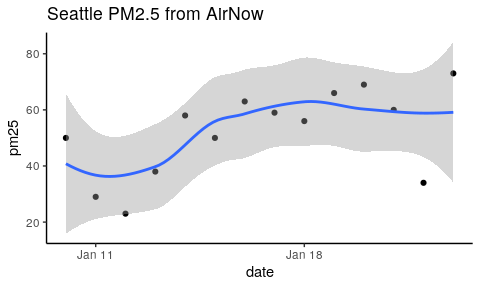
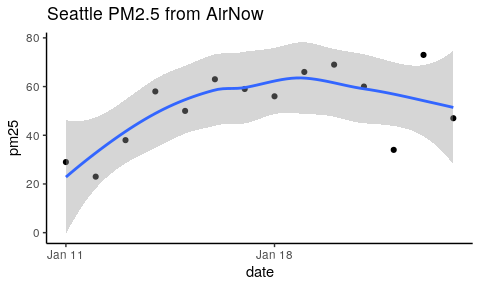
Added example for EPA AQS.

diff --git a/demos/data_import/epa_aqi/getAQI.md b/demos/data_import/epa_aqi/getAQI.md
@@ -1,7 +1,7 @@
 ---
 title: 'Air Quality Web Data'
 author: "Brian High"
-date: "24 January, 2021"
+date: "25 January, 2021"
 output:
   ioslides_presentation:
     fig_caption: yes
@@ -49,7 +49,7 @@ Load packages with `pacman` to auto-install any missing packages.
 if (! suppressPackageStartupMessages(require(pacman))) {
   install.packages('pacman', repos = 'http://cran.us.r-project.org')
 }
-pacman::p_load(dplyr, tidyr, ggplot2, lubridate, httr, jsonlite, styler)
+pacman::p_load(dplyr, tidyr, ggplot2, lubridate, httr, jsonlite, styler, maps)
 ```
 
 We are loading:
@@ -93,7 +93,7 @@ substr(prettify(fromJSON(url)), 1, 250)
 ```
 ## {
 ##     "state": "Washington",
-##     "fileWrittenDateTime": "20210124T160607Z",
+##     "fileWrittenDateTime": "20210125T160551Z",
 ##     "reportingAreas": [
 ##         {
 ##             "Ritzville": {
@@ -179,6 +179,86 @@ ggplot(plot_df, aes(date, pm25)) + geom_point() +  ggtitle(plot_title) +
 ```
 
 ![](getAQI_files/figure-html/airnow_plot-1.png)<!-- -->
+
+## Get EPA AQS Data
+
+The EPA offers data for [download](https://aqs.epa.gov/aqsweb/airdata/download_files.html) as annual 
+"zip" archives from previous years. You can download files for the year and 
+geographic area you want and then extract the data you want from those files.
+
+If you want to be more specific in what you download, you can use their 
+[API](https://aqs.epa.gov/aqsweb/documents/data_api.html) to 
+get data in JSON format for, e.g., a specific site and parameter. But you can't 
+get recent data from this source, unfortunately.
+
+We will get PM2.5 data for the "Seattle-10th & Weller" site for a two week 
+period from this time last year.
+
+
+```r
+# Calculate start and end dates
+start <- format.Date(Sys.Date() - 379, "%Y%m%d")
+end <- format.Date(Sys.Date() - 365, "%Y%m%d")
+```
+
+## Get EPA AQS Metadata
+
+To get our data, we will first need to download some metadata:
+
+- State FIPS code
+- County code
+- State code
+- Site number
+- Parameter code
+
+
+```r
+# Find FIPS code for Washington
+url <- "https://aqs.epa.gov/data/api/list/states?email=test@aqs.api&key=test"
+states <- fromJSON(url)[['Data']]
+fips_code <- states %>%  filter(value_represented == "Washington") %>% pull(code)
+
+# Get monitor info (site number and parameter code)
+url <- "https://aqs.epa.gov/data/api/monitors/byState"
+query_list <- list(email = "test@aqs.api", key = "test", 
+                   bdate = start, edate = end, state = fips_code)
+monitors <- fromJSON(content(GET(url, query = query_list), "text"))[['Data']]
+monitor <- monitors %>% filter(local_site_name == "Seattle-10th & Weller",
+         parameter_name == "PM2.5 - Local Conditions") 
+```
+
+## Get data with EPA AQS API
+
+Now we can get our hourly PM2.5 data from "Seattle-10th & Weller" from last year.
+
+
+```r
+# Get PM2.5 data
+url <- "https://aqs.epa.gov/data/api/sampleData/bySite"
+query_list <- list(email = "test@aqs.api", key = "test", 
+                   bdate = start, edate = end, state = fips_code,
+                   county = monitor$county_code, site = monitor$site_number, 
+                   param = monitor$parameter_code)
+df <- fromJSON(content(GET(url, query = query_list), "text"))[['Data']]
+
+# Prepare data for plotting
+plot_df <- df %>% 
+  mutate(datetime = 
+    as_datetime(paste(date_gmt, paste0(time_gmt, ':00')), tz = "UTC")) %>%
+  select(datetime, pm25 = "sample_measurement")
+```
+
+## Plot EPA AQS PM2.5 data for Seattle
+
+
+```r
+plot_title <- paste("Seattle (10th and Weller) PM2.5 from EPA AQS", 
+                    paste0('(', year(plot_df$datetime[1]), ')'))
+ggplot(plot_df, aes(datetime, pm25)) + geom_point() +  ggtitle(plot_title) + 
+  geom_smooth(formula = "y ~ x", method = "loess") + theme_classic()
+```
+
+![](getAQI_files/figure-html/epa_aqs_plot-1.png)<!-- -->
 
 ## Get WA Ecology data
 
@@ -304,7 +384,7 @@ start_date
 ```
 
 ```
-## [1] "1/10/2021"
+## [1] "1/11/2021"
 ```
 
 ```r
@@ -312,7 +392,7 @@ end_date
 ```
 
 ```
-## [1] "1/23/2021"
+## [1] "1/24/2021"
 ```
 
 ## Create list of request parameters
@@ -372,7 +452,7 @@ substr(prettify(json_txt), 1, 400)
 ##     "StationId": 163,
 ##     "data": [
 ##         {
-##             "datetime": "2021-01-10T00:00:00-08:00",
+##             "datetime": "2021-01-11T00:00:00-08:00",
 ##             "Originaldatetime": "/Date(-62135568000000)/",
 ##             "channels": [
 ##                 {
@@ -380,7 +460,7 @@ substr(prettify(json_txt), 1, 400)
 ##                     "id": 32,
 ##                     "name": "BAM_PM25",
 ##                     "alias": null,
-##                     "value": 12.0,
+##                     "value": 4.0,
 ## 
 ```
 
